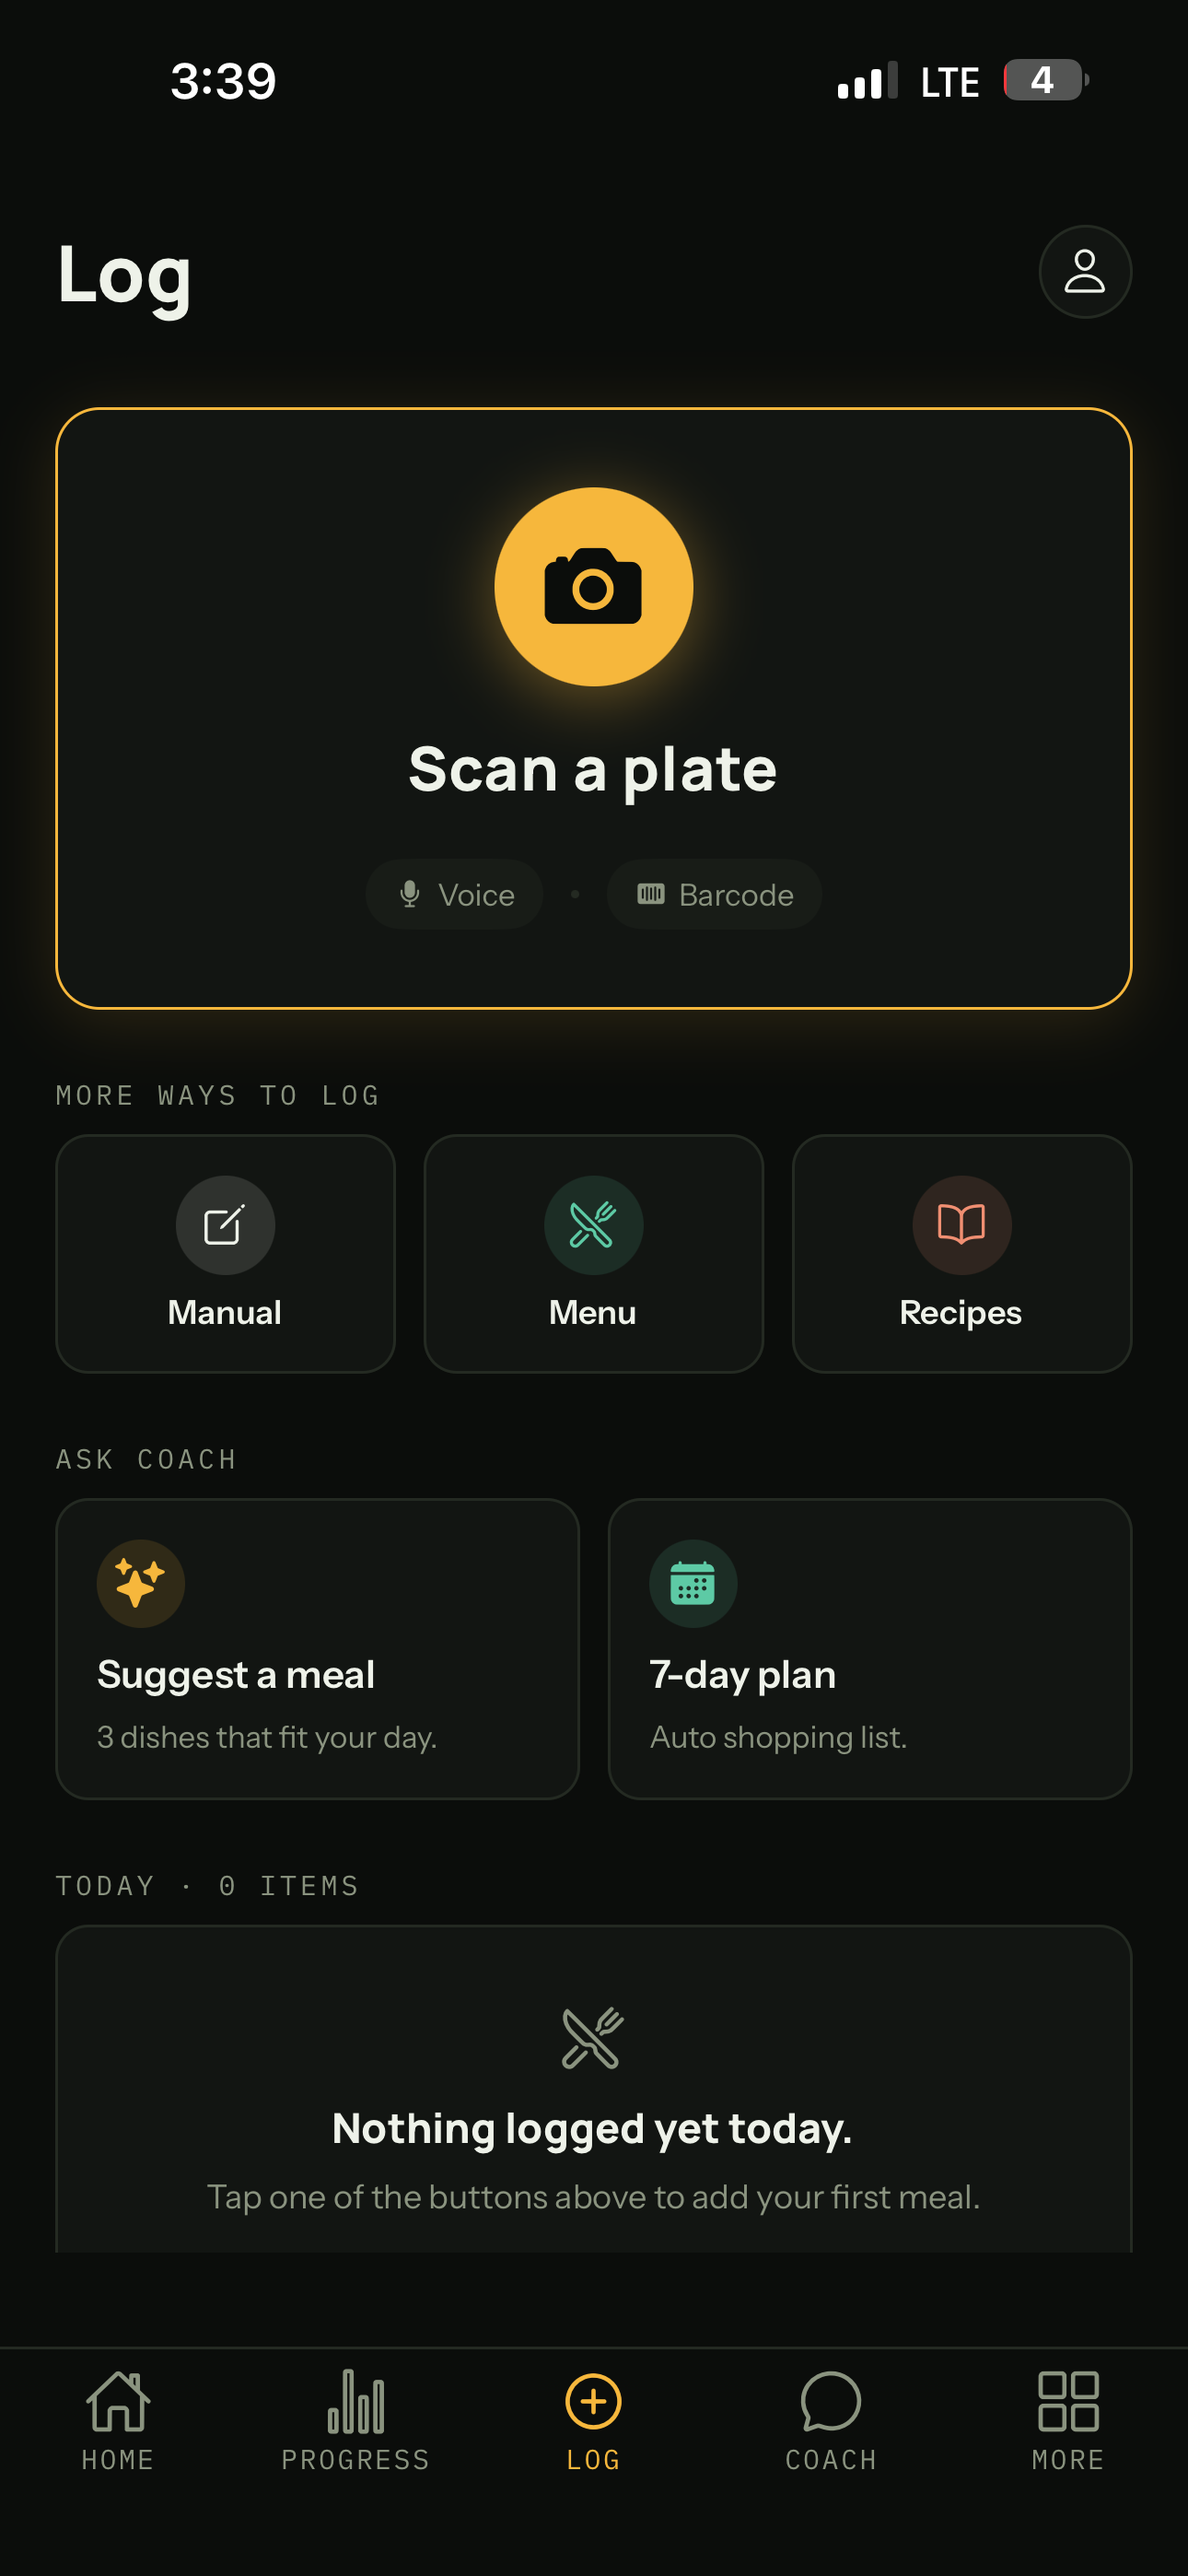
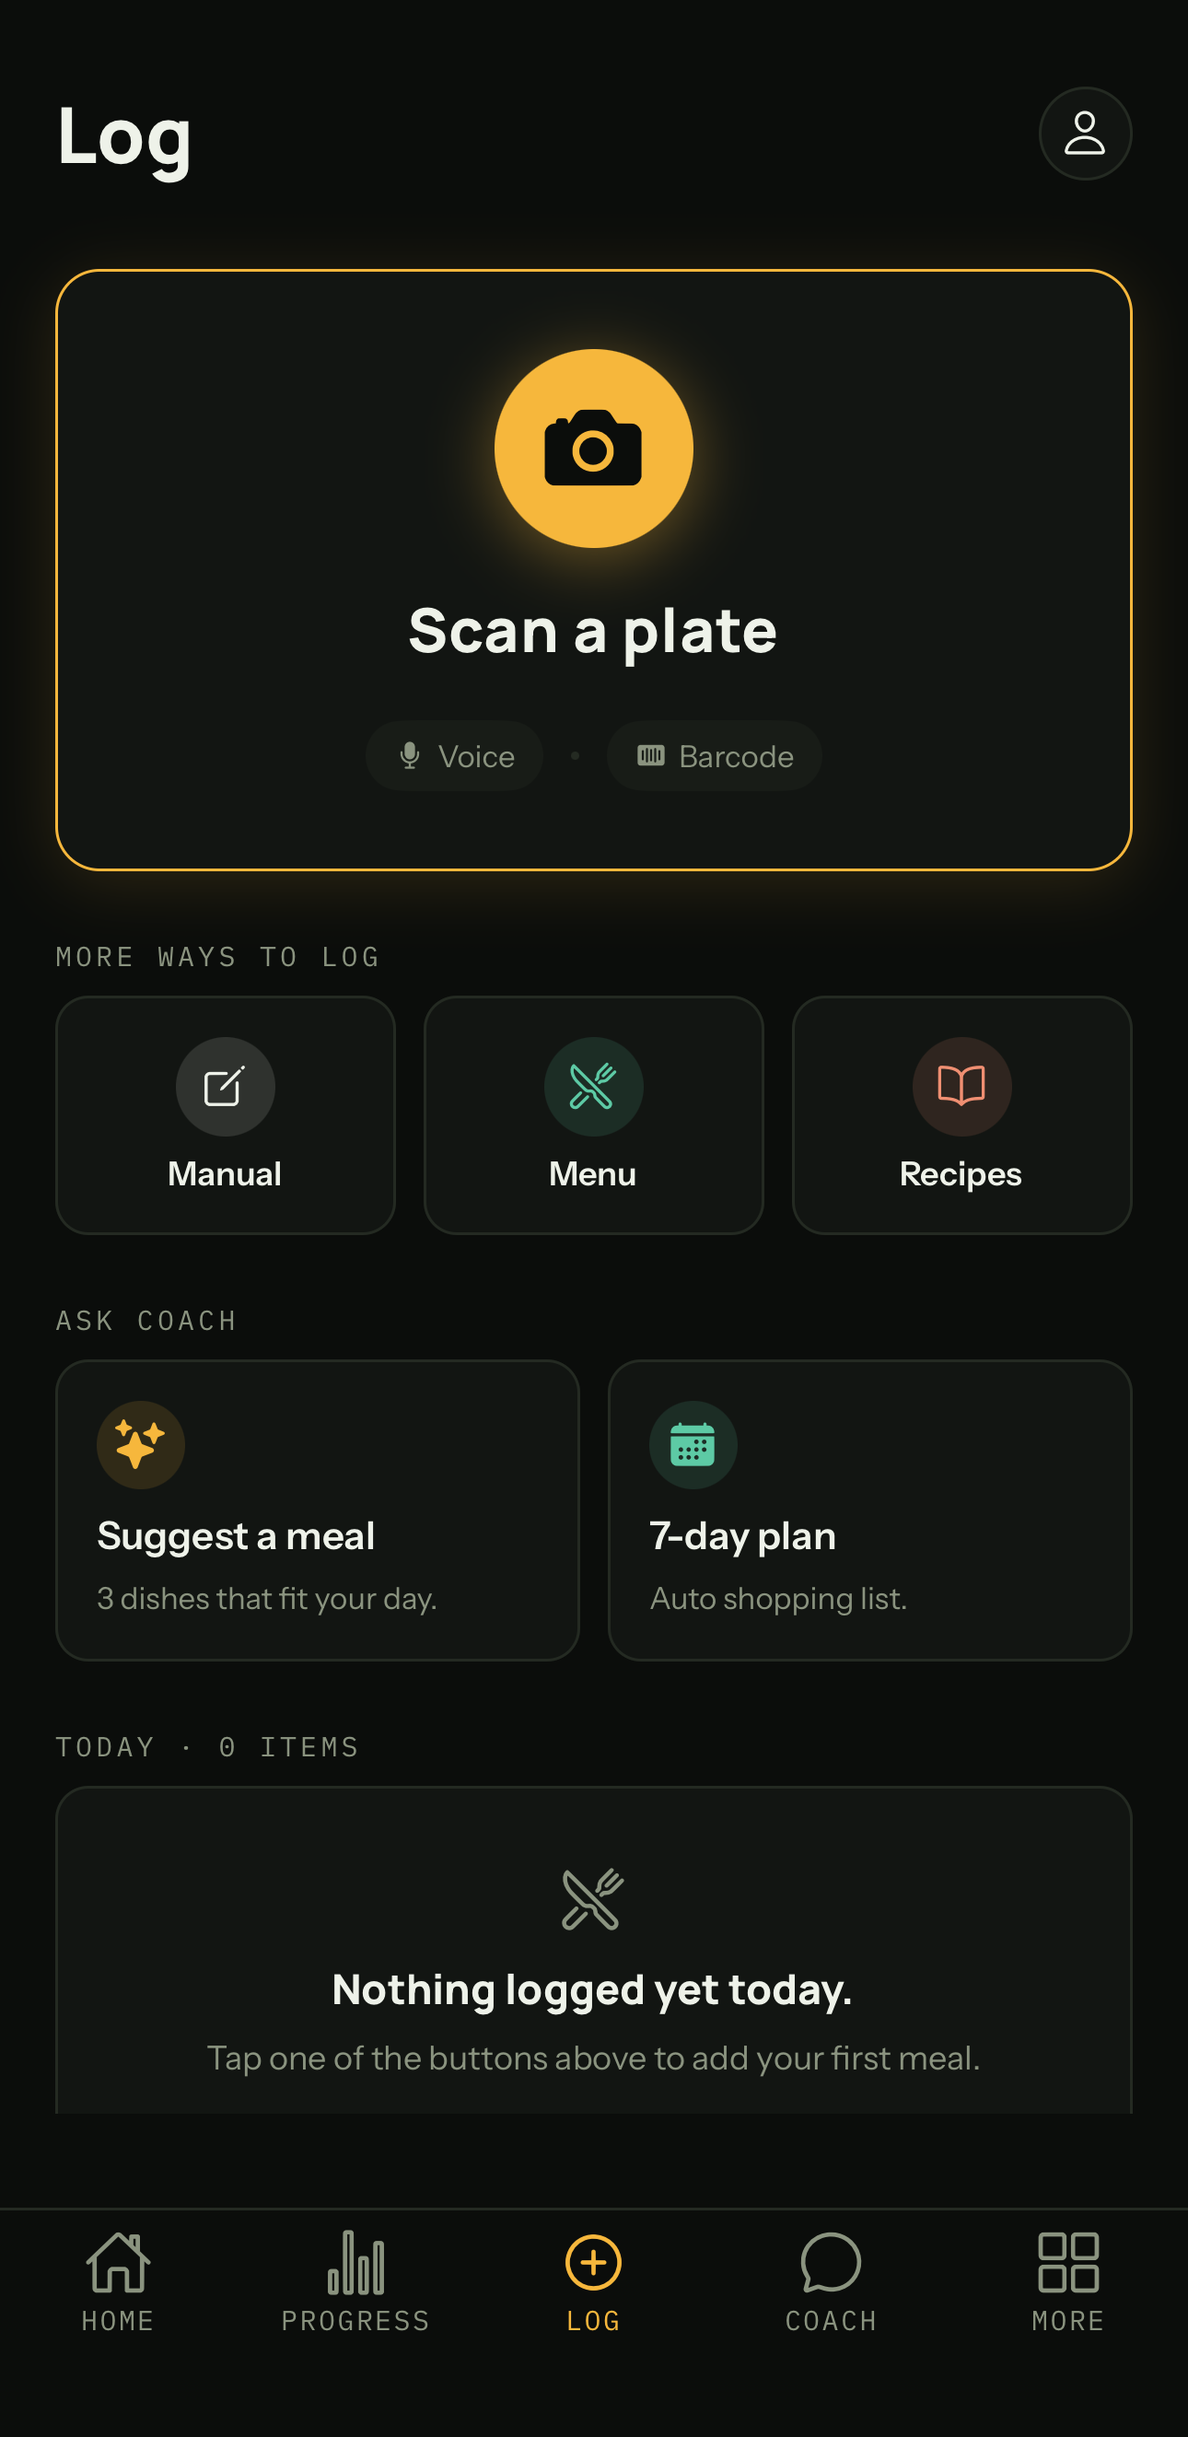
website: strip iOS status bars, redact coach name, swap Progress→Plan tile
- Nav tag: TRAIN SMART → TRACK SMART (hero + footer). Matches the
  app's actual positioning — SE7A tracks food/activity, doesn't
  prescribe training sessions.
- Cropped the top 150px from every showcase screenshot in
  public/screenshots/ to remove the iOS status bar (time, signal,
  battery) and the dynamic island. New aspect ratio 1290 / 2646
  reflected in showcase-phone CSS. App titles stay (SE7A, Progress,
  Log, Coach, etc) because the crop stops at the status-bar
  boundary.
- coach.png: user's first name redacted via PIL — dark panel
  rectangle over "Basem" with "there" written in its place, so the
  rendered sentence reads naturally as a sample conversation
  without exposing personal info.
- Swapped the Progress tile for a 90-DAY PLAN tile backed by the
  Report screen (public/screenshots/plan.png = IMG_4277 cropped).
  New copy: "A plan that writes itself" + a line about phased
  training intensity and periodized nutrition.

Still outstanding (needs fresh screenshot from you):
  • home.png is the current build but you flagged it as the "old
    look" — if you have a cleaner Home shot (meals populated, not
    the empty-state 0g/0g/0g), share it and I'll drop it in.
  • If you want the 90-DAY PLAN tile to specifically show the
    GENERATE flow (button + inputs) rather than the generated plan
    output, I'll need that screenshot — the current one is the
    plan result.

diff --git a/components/FeatureShowcase.tsx b/components/FeatureShowcase.tsx
@@ -25,10 +25,10 @@ const FEATURES = [
     body: "Snap a plate photo, say what you ate, or scan a barcode — SE7A does the macro math and respects what's actually knowable.",
   },
   {
-    img: "/screenshots/progress.png",
-    kicker: "PROGRESS",
-    headline: "Honest ranges, not fake precision",
-    body: "Weight changes over 7/14/30/90 days. BMI with context. Weekly energy as burned vs consumed. No vanity numbers.",
+    img: "/screenshots/plan.png",
+    kicker: "90-DAY PLAN",
+    headline: "A plan that writes itself",
+    body: "Generate a personalized 90-day plan with phased training intensity, periodized nutrition, and weekly milestones — then watch it adapt as you log.",
   },
   {
     img: "/screenshots/coach.png",
@@ -72,8 +72,8 @@ export function FeatureShowcase() {
               <Image
                 src={f.img}
                 alt={f.headline}
-                width={322}
-                height={698}
+                width={1290}
+                height={2646}
                 sizes="(max-width: 720px) 80vw, 320px"
                 className="showcase-img"
               />

diff --git a/app/(marketing)/page.tsx b/app/(marketing)/page.tsx
@@ -30,7 +30,7 @@ export default function Home() {
               SE<span className="seven">7</span>A
               <span className="arabic">{"صحة"}</span>
             </div>
-            <div className="nav-tag">EAT SMART {"·"} TRAIN SMART</div>
+            <div className="nav-tag">EAT SMART {"·"} TRACK SMART</div>
           </nav>
         </div>
       </StickyNav>
@@ -515,7 +515,7 @@ export default function Home() {
           <div className="footer-left">
             <div className="mono">SE7A {"©"} 2026 {"·"} DUBAI, UAE</div>
             <div className="footer-sub">
-              Eat smart · Train smart · Built in the Gulf, for the Gulf.
+              Eat smart · Track smart · Built in the Gulf, for the Gulf.
             </div>
           </div>
           <div className="footer-right">

diff --git a/app/globals.css b/app/globals.css
@@ -1413,7 +1413,8 @@ footer a:hover { color: var(--gold); }
   border-radius: 24px;
   overflow: hidden;
   border: 1px solid var(--line);
-  aspect-ratio: 322 / 698;
+  /* Matches cropped-screenshot aspect (iOS status bar removed) */
+  aspect-ratio: 1290 / 2646;
   display: flex;
   align-items: stretch;
   justify-content: center;
